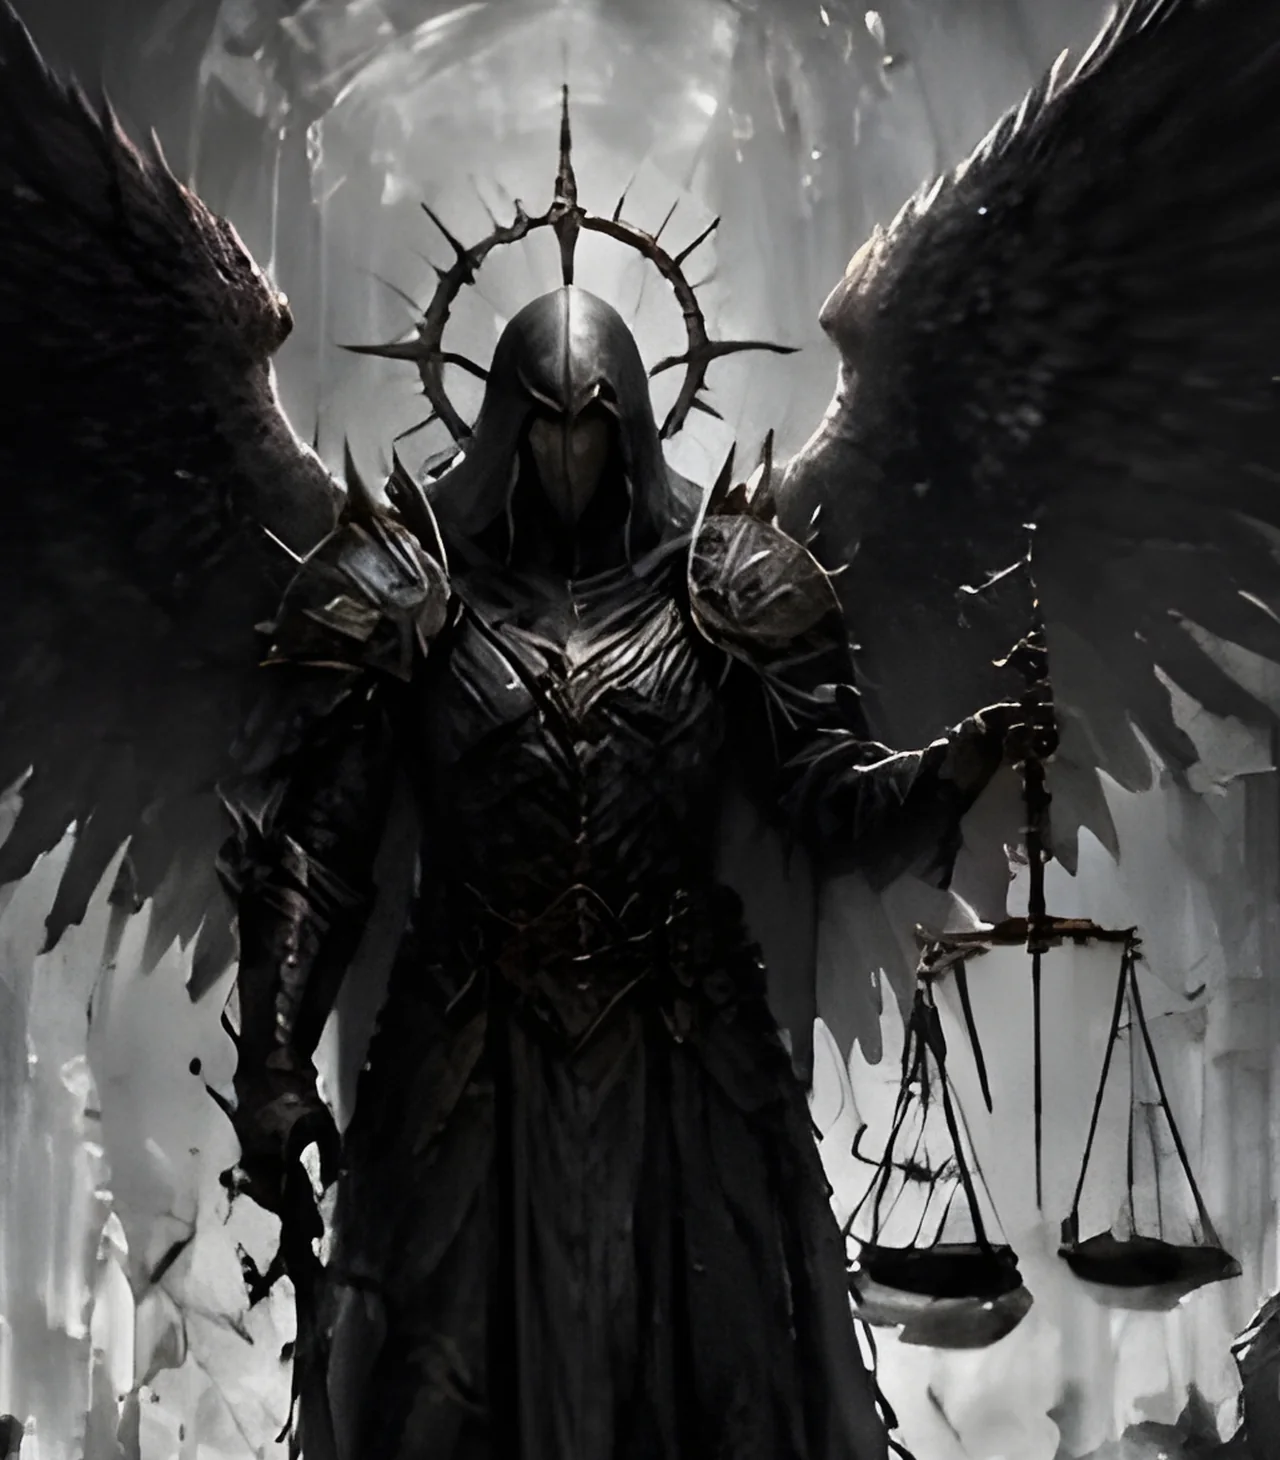
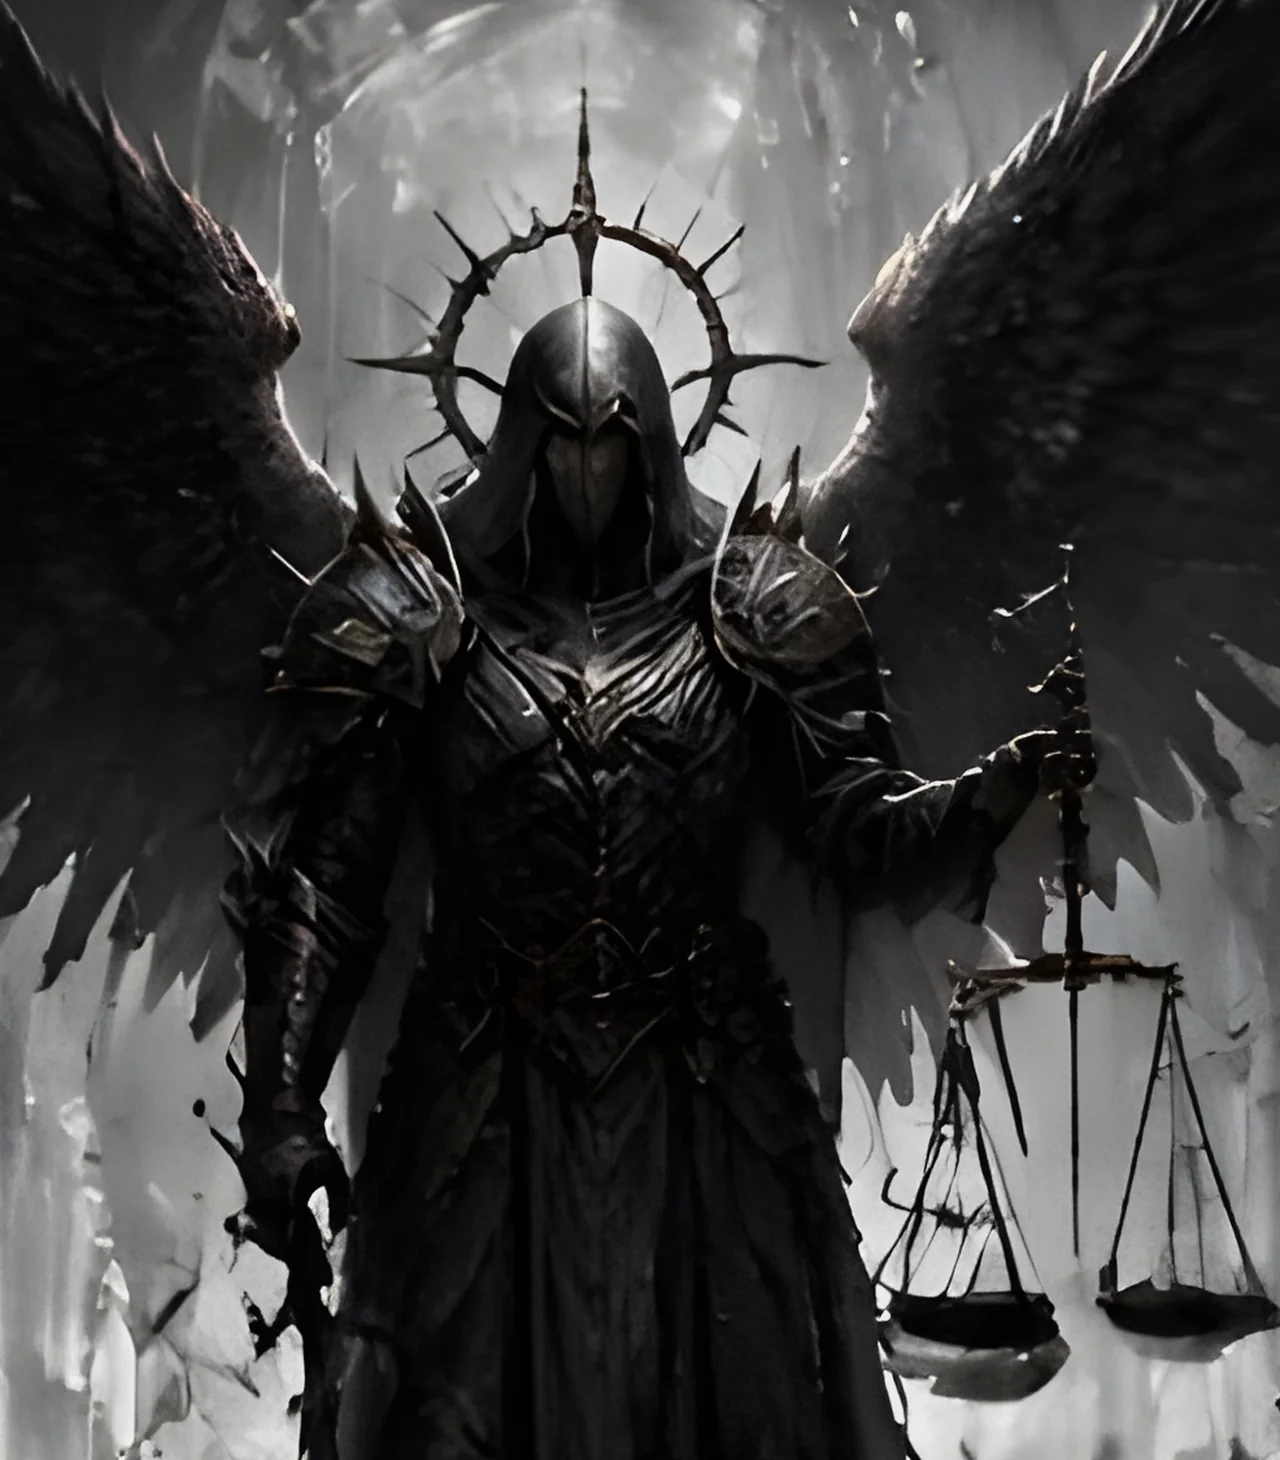
Arbiter destroys all other units (friend and foe) and grows for each; his fight 100 Health, 20 Armor; Arbiter and Ostiarius art without the white edge (0.59.2)

diff --git a/src/i18n/cs/cards/heaven.ts b/src/i18n/cs/cards/heaven.ts
@@ -10,7 +10,7 @@ const cards: CardsOverlay = {
   emb_azrafel_angel_of_the_red_moon: { name: 'Azrafel, anděl Rudého měsíce', description: 'Výpad. Vysátí. Kdykoli tato jednotka zničí jednotku, způsob 3 poškození nepřátelskému Strážci.', flavorText: 'Zástup má jednoho anděla, který nezpívá. Když nad sedmým nebem vyjde Rudý měsíc, jde do práce.' },
   irn_the_chainbearer: { name: 'Řetězník', description: 'Stráž. Při nasazení: Umlč nepřátelskou jednotku. Získej 3 brnění.', flavorText: 'Každý řetěz, který nese, byl ukován pro jednoho vězně. Druhý ještě nikdy kovat nemusel.' },
   ast_solenne_voice_of_the_throne: { name: 'Solenne, hlas Trůnu', description: 'Při nasazení: Zmraz všechny nepřátelské jednotky. Lízni si kartu za každou zmrazenou nepřátelskou jednotku (nejvýš 3).', flavorText: 'Trůn už věky nepromluvil, a tak mluví Solenne za něj. Ještě nikdy jí nikdo neřekl, že se mýlí.' },
-  neu_the_arbiter: { name: 'Arbitr', description: 'Při nasazení: Vynes rozsudek: znič všechny nepřátelské jednotky a za každou získej +1/+1.', flavorText: 'Zvážil Korunu, když byla celá, a shledal ji lehkou. Od té doby váží Aethru a shledává ji nedostatečnou.' },
+  neu_the_arbiter: { name: 'Arbitr', description: 'Při nasazení: Vynes rozsudek: znič všechny ostatní jednotky, spřátelené i nepřátelské, a za každou získej +1/+1.', flavorText: 'Zvážil Korunu, když byla celá, a shledal ji lehkou. Od té doby váží Aethru a shledává ji nedostatečnou.' },
 };
 
 export default cards;

diff --git a/src/data/opponents.ts b/src/data/opponents.ts
@@ -968,7 +968,7 @@ export const HEAVEN_CAMPAIGN: Chapter[] = [
       {
         id: 'hv3_final', name: 'The Arbiter', title: 'Who Weighs All Things', avatar: 'crown', faction: 'ASTRAL', secondFaction: 'NEUTRAL', archetype: 'Starlit Control', difficulty: 'HARD', personality: 'CONTROL', rarities: ALL, boss: true, preCinematic: 'heaven_tribunal',
         intro: 'I weighed the Crown and found it light. I weighed Aethra and found it wanting. Step onto the scales, both of you.',
-        special: { heroHealth: 80, startingArmor: 15, bonusStartingEnergy: 1, rules: ['coop_rule_draw', 'coop_rule_energy', 'coop_rule_scales'], extraCards: ['neu_the_arbiter'], description: ['Starts with 80 Health, 15 Armor and 1 extra Energy.', 'Every turn: draws an extra card and gains 2 Energy.', 'The Scales: at the start of each of his turns, he deals 3 damage to a random unit of yours.', 'His deck holds the Arbiter himself. Beat him and he joins you.'] },
+        special: { heroHealth: 100, startingArmor: 20, bonusStartingEnergy: 1, rules: ['coop_rule_draw', 'coop_rule_energy', 'coop_rule_scales'], extraCards: ['neu_the_arbiter'], description: ['Starts with 100 Health, 20 Armor and 1 extra Energy.', 'Every turn: draws an extra card and gains 2 Energy.', 'The Scales: at the start of each of his turns, he deals 3 damage to a random unit of yours.', 'His deck holds the Arbiter himself. Beat him and he joins you.'] },
         firstWinReward: { gold: 600, xp: 600, cardId: 'neu_the_arbiter' },
       },
     ],

diff --git a/tests/heavenCampaign.test.ts b/tests/heavenCampaign.test.ts
@@ -86,13 +86,14 @@ describe('The Twin Oath (co-op campaign)', () => {
     expect(r.state.players[2].board[0].keywords).toContain('BARRIER');
   });
 
-  it('the Arbiter passes judgment on the whole enemy board and grows with it', () => {
-    let s = newGame({ board1: ['neu_stonehide_ox', 'token_recruit', 'token_recruit'] });
+  it('the Arbiter passes judgment on every other unit, friend and foe, and grows with it', () => {
+    let s = newGame({ board0: ['token_recruit'], board1: ['neu_stonehide_ox', 'token_recruit', 'token_recruit'] });
     setEnergy(s, 0, 10);
     s = act(s, { type: 'PLAY_CARD', player: 0, cardUid: giveCard(s, 0, 'neu_the_arbiter') });
     expect(s.players[1].board).toHaveLength(0);
-    const arbiter = s.players[0].board.find((u) => u.cardId === 'neu_the_arbiter')!;
-    expect([unitAttack(s, arbiter), currentHealth(arbiter)]).toEqual([6, 6]);
+    expect(s.players[0].board.map((u) => u.cardId)).toEqual(['neu_the_arbiter']);
+    const arbiter = s.players[0].board[0];
+    expect([unitAttack(s, arbiter), currentHealth(arbiter)]).toEqual([7, 7]);
   });
 
   it('Halcyon shields everyone behind him, and everyone who comes after', () => {

diff --git a/src/data/cards/heaven.ts b/src/data/cards/heaven.ts
@@ -81,12 +81,15 @@ export const HEAVEN_CARDS: CardDefinition[] = [
       {
         trigger: 'ON_DEPLOY',
         effects: [
+          // Counted before the verdict: every enemy unit and every other friendly one.
           { type: 'BUFF', attack: { kind: 'ENEMY_UNIT_COUNT' }, health: { kind: 'ENEMY_UNIT_COUNT' }, target: 'SELF' },
+          { type: 'BUFF', attack: { kind: 'ALLY_UNIT_COUNT', plus: -1 }, health: { kind: 'ALLY_UNIT_COUNT', plus: -1 }, target: 'SELF' },
           { type: 'DESTROY', target: 'ALL_ENEMY_UNITS' },
+          { type: 'DESTROY', target: 'OTHER_ALLY_UNITS' },
         ],
       },
     ],
-    description: 'On Deploy: Pass judgment: destroy all enemy units and gain +1/+1 for each one.',
+    description: 'On Deploy: Pass judgment: destroy all other units, friend and foe, and gain +1/+1 for each one.',
     flavorText: 'He weighed the Crown when it was whole and found it light. He has weighed Aethra since, and found it wanting.',
   },
 ];

diff --git a/src/i18n/cs/data/opponents.ts b/src/i18n/cs/data/opponents.ts
@@ -707,7 +707,7 @@ const v: OpponentsOverlay = {
       name: 'Arbitr',
       title: 'Ten, který váží vše',
       intro: 'Zvážil jsem Korunu a shledal ji lehkou. Zvážil jsem Aethru a shledal ji nedostatečnou. Vstupte na váhy, oba dva.',
-      special: ['Začíná se 80 životy, 15 brnění a 1 energií navíc.', 'Každý tah: lízne si kartu navíc a získá 2 energie.', 'Váhy: na začátku každého jeho tahu způsobí 3 poškození náhodné vaší jednotce.', 'Jeho balíček obsahuje samotného Arbitra. Poraz ho a přidá se k tobě.'],
+      special: ['Začíná se 100 životy, 20 brnění a 1 energií navíc.', 'Každý tah: lízne si kartu navíc a získá 2 energie.', 'Váhy: na začátku každého jeho tahu způsobí 3 poškození náhodné vaší jednotce.', 'Jeho balíček obsahuje samotného Arbitra. Poraz ho a přidá se k tobě.'],
     },
   },
   chapters: {

diff --git a/src/data/patchNotes.ts b/src/data/patchNotes.ts
@@ -19,6 +19,17 @@ export interface PatchNote {
 
 export const PATCH_NOTES: PatchNote[] = [
   {
+    version: '0.59.2',
+    date: '2026-10-18',
+    title: 'No one is spared',
+    summary: 'The Arbiter now judges every other unit, his own side’s too, and his fight is tougher.',
+    sections: [
+      { kind: 'balance', items: ['The Arbiter: On Deploy he now destroys all other units, friend and foe, and gains +1/+1 for each one.', 'The Arbiter’s fight in the Tribunal: he starts with 100 Health and 20 Armor (was 80 and 15).'] },
+      { kind: 'fixed', items: ['The Arbiter’s and Ostiarius’s art no longer shows a white stripe at the edge.'] },
+    ],
+    commits: [],
+  },
+  {
     version: '0.59.1',
     date: '2026-10-18',
     title: 'Judgment Day',

diff --git a/src/i18n/cs/data/patchNotes.ts b/src/i18n/cs/data/patchNotes.ts
@@ -1,6 +1,14 @@
 import type { PatchNotesOverlay } from '../../overlayTypes';
 
 const notes: PatchNotesOverlay = {
+  '0.59.2': {
+    title: 'Nikdo není ušetřen',
+    summary: 'Arbitr teď soudí všechny ostatní jednotky, i ty na své straně, a jeho souboj je těžší.',
+    sections: [
+      ['Arbitr: Při nasazení teď zničí všechny ostatní jednotky, spřátelené i nepřátelské, a za každou získá +1/+1.', 'Souboj s Arbitrem v Tribunálu: začíná se 100 životy a 20 brnění (dřív 80 a 15).'],
+      ['Obrázky Arbitra a Ostiaria už nemají na okraji bílý pruh.'],
+    ],
+  },
   '0.59.1': {
     title: 'Soudný den',
     summary: 'Tři rytíři Dvojí přísahy mají nové schopnosti: Arbitr, Solenne a Halcyon.',
